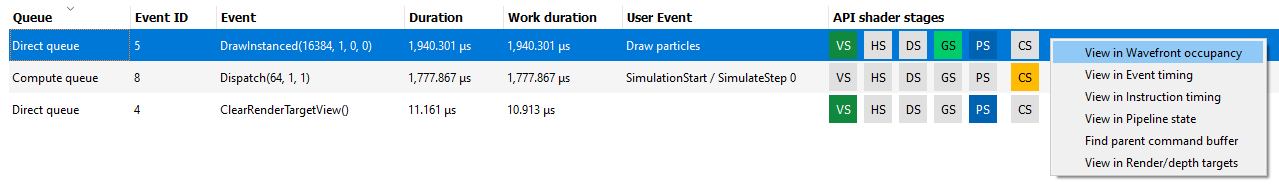
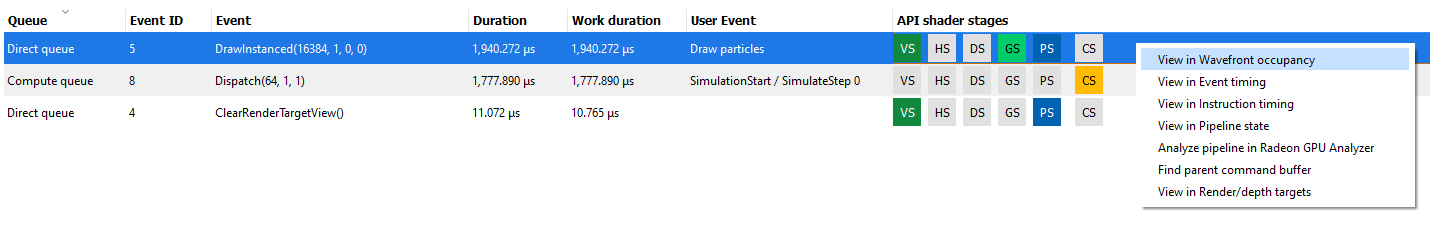
Update documentation for V2.1

diff --git a/docs/source/conf.py b/docs/source/conf.py
@@ -1,5 +1,7 @@
 # -*- coding: utf-8 -*-
 #
+# Copyright (c) 2017-2024 Advanced Micro Devices, Inc. All rights reserved.
+#
 # Radeon GPU Profiler documentation build configuration file, created by
 # sphinx-quickstart on Fri Jun 30 12:01:48 2017.
 #
@@ -46,7 +48,7 @@ master_doc = 'index'
 
 # General information about the project.
 project = u'Radeon GPU Profiler'
-copyright = u'2017-2023, Advanced Micro Devices, Inc. All rights reserved.'
+copyright = u'2017-2024, Advanced Micro Devices, Inc. All rights reserved.'
 author = u'AMD Developer Tools'
 
 # The version info for the project you're documenting, acts as replacement for
@@ -54,9 +56,9 @@ author = u'AMD Developer Tools'
 # built documents.
 #
 # The short X.Y version.
-version = u'2.0.0'
+version = u'2.1.0'
 # The full version, including alpha/beta/rc tags.
-release = u'2.0.0'
+release = u'2.1.0'
 
 # The language for content autogenerated by Sphinx. Refer to documentation
 # for a list of supported languages.

diff --git a/docs/source/index.rst b/docs/source/index.rst
@@ -308,6 +308,13 @@ right-click context menu to jump between panes, the option to "View in
 context rolls" will only be available if the selected event is currently
 present in the events table on the context rolls pane.
 
+In the events panes selecting the "context rolls" option from the "Color 
+By" drop down box in the Wavefront occupancy event timeline or the Event 
+timing pane shows all events that have had their context rolled from the
+previous event.
+
+.. image:: media_rgp/rgp_context_rolls_4.png
+
 Most expensive events
 ---------------------
 
@@ -566,8 +573,8 @@ supports zooming:
 .. |ZoomInRef| image:: media_rgp/rgp_zoom_in.png
 .. |ZoomOutRef| image:: media_rgp/rgp_zoom_out.png
 
-|ZoomSelectionRef| **Zoom to selection**
-----------------------------------------
+|ZoomSelectionRef| Zoom to selection
+------------------------------------
 When **Zoom to selection** is clicked, the zoom level is increased to a selected
 region or selected event. A selection region is set by holding down the
 left mouse button while the mouse is on the graph and dragging the mouse
@@ -580,14 +587,14 @@ to a selected event can be accomplished by simply double clicking the event.
 Pressing the **Z** shortcut key while holding down the **CTRL** key activates
 **Zoom to selection** as well.
 
-|ZoomResetRef| **Zoom reset**
------------------------------
+|ZoomResetRef| Zoom reset
+-------------------------
 When **Zoom reset** is clicked, the zoom level is returned to the original level
 to reveal the entire time span on the graph. The zoom level can also be reset
 using the **H** shortcut key.
 
-|ZoomInRef| **Zoom in**
------------------------
+|ZoomInRef| Zoom in
+-------------------
 Increases the zoom level incrementally to display a shorter time span on the
 graph. The zoom level is increased each time this icon is clicked until the
 maximum zoom level is reached. Alternatively, holding down the **CTRL** key
@@ -596,8 +603,8 @@ will also zoom in for a more detailed view. Zooming in can be activated with
 the **A** shortcut key. To zoom in quickly at a 10x rate, press the **S**
 shortcut key.
 
-|ZoomOutRef| **Zoom out**
--------------------------
+|ZoomOutRef| Zoom out
+---------------------
 Decreases the zoom level incrementally to display a longer time span on the
 graph. The zoom level is decreased each time this icon is clicked until the
 minimum zoom level is reached (i.e. the full available time region).
@@ -1046,6 +1053,55 @@ contain a user event hierarchy, nothing will be shown.
 Events enclosed by user markers are colored in the wavefront occupancy
 view. They are also visible in the side panel.
 
+.. _rga_rgp_interop:
+
+Radeon GPU Analyzer and Radeon GPU Profiler interop
+===================================================
+
+The Radeon GPU Analyzer now supports opening pipeline binary files in its binary analysis mode. 
+Users can create and open these binary files directly from RGP and view them in RGA. To export 
+a pipeline binary for analysis in RGA right-click an event in any RGP pane that contains events 
+and select "Analyze pipeline in Radeon GPU Analyzer" in the context menu options.
+
+.. image:: media_rgp/rgp_analyze_pipeline_in_rga.png
+
+Some events such as indirect raytracing events can have multiple pipeline binaries. To select 
+which pipeline binary to analyze in RGA right-click a specific binary in the pipeline state 
+shader table for ray tracing events and select the context menu option to analyze that pipeline 
+binary. Alternatively, right-click the event anywhere in RGP and select "Analyze pipeline in 
+Radeon GPU Analyzer" to open a window to pick from the full list of pipeline binaries in that event.
+Pushing the "Analyze selected binaries" button will save and open all binaries that were checked in
+the list in RGA. Keep in mind opening a large number of pipeline binaries in RGA may take some time.
+
+.. image:: media_rgp/rgp_select_multiple_pipeline_binaries_for_rga_export.png
+
+The location of the Radeon GPU Analyzer executable file as well as the location where pipeline 
+binaries are saved can be changed in the Radeon GPU Analyzer interop section of the general settings.
+
+.. image:: media_rgp/rgp_rga_interop_settings.png
+
+If either the executable file or pipeline binary file path cannot be found an error message will 
+be displayed next to the corresponding setting.
+
+.. image:: media_rgp/rgp_rga_interop_settings_invalid.png
+
+Selecting a pipeline binary for analysis while either of these file paths are invalid will open up 
+a message prompt to select a valid file path.
+
+.. image:: media_rgp/rgp_rga_executable_not_found.png
+
+If the pipeline binary being exported already exists on disk a message prompt will appear asking 
+if the file should be overwritten or directly opened in RGA without being overwritten. Select the 
+checkbox in the message prompt to save the selected option for the future and not see this message 
+again.
+
+.. image:: media_rgp/rgp_pipeline_binary_file_already_exists.png
+
+This setting can be changed at any time from the Radeon GPU Analyzer interop section of the 
+general settings.
+
+.. image:: media_rgp/rgp_overwrite_existing_pipeline_binaries_options.png
+
 RenderDoc & Radeon GPU Profiler interop BETA
 ============================================
 
@@ -1225,4 +1281,4 @@ Microsoft is a registered trademark of Microsoft Corporation in the US and other
 
 Windows is a registered trademark of Microsoft Corporation in the US and other jurisdictions.
 
-© 2016-2023 Advanced Micro Devices, Inc. All rights reserved.
+© 2016-2024 Advanced Micro Devices, Inc. All rights reserved.

diff --git a/docs/source/instruction_timing.rst b/docs/source/instruction_timing.rst
@@ -65,23 +65,32 @@ be seen in the image below.
 
 Solid green indicates how much of a given instruction's latency was hidden by VALU work. Solid yellow
 indicates how much latency was hidden by SALU or SMEM work. A diagonal hatch pattern made up of both
-green and yellow indicates how much latency was hidden by both VALU and SALU work. Finally, red indicates
-how much latency was not hidden by other work being done on the GPU. It is likely that bars
-with large red segments indicate a stall occurring while the shader is executing. When the mouse
-hovers over a row in the Latency column, a tooltip appears showing the exact breakdown of that
+green and yellow indicates how much latency was hidden by both VALU and SALU work.
+Sections with a black diagonal hatch pattern are the portion of the stall that is the pre-issue stall.
+Finally, solid red indicates how much latency was not hidden by other work being done on the GPU.
+It is likely that bars with large red segments indicate a stall occurring while the shader is executing.
+When the mouse hovers over a row in the Latency column, a tooltip appears showing the exact breakdown of that
 instruction's latency.
 
-In the image above, the total latency of the instruction is 853 clocks. Of those 853 clocks, 209 clocks
-worth of latency are hidden by SALU work on other slots and 554 clocks worth of latency are hidden by
-VALU work. The 209 clocks where both SALU and VALU work was being done is shown using the hatch pattern.
-The segment between 209 and 554 clocks is shown as green since only VALU work is being done. The segment
-between 554 and 853 clocks is shown as red since there is no other work being done. Since there is more
+In the image above, the total latency of the instruction is 845 clocks. Of those 845 clocks, 197 clocks
+worth of latency are hidden by SALU work on other slots and 453 clocks worth of latency are hidden by
+VALU work. The 197 clocks where both SALU and VALU work was being done is shown using the hatch pattern.
+The segment between 197 and 453 clocks is shown as green since only VALU work is being done. The segment
+between 453 and 845 clocks is shown as red since there is no other work being done. Since there is more
 VALU work being done at the same time, green is more prevalent than yellow in this bar.
 
 Contrast this with the image below, where an instruction is shown where more latency is hidden by SALU
 work. In this case, yellow is more prevalent than green.
 
 .. image:: media_rgp/rgp_instruction_timing_latency_bars_2.png
+
+When the amount of latency hidden by SALU and VALU work is greater than the the pre-issue
+stall, no black diagonal hatch pattern will be displayed, and the tooltip will display that the pre-issue
+stall is completely hidden. If the amount of latency hidden by SALU and VALU work is less than the 
+pre-issue stall, the duration after the VALU and SALU work will have the black diagonal hatch pattern,
+as shown in the image below.
+
+.. image:: media_rgp/rgp_instruction_timing_latency_bars_3.png
 
 A red indicator will be shown in the vertical scroll bar corresponding to the location of the
 instruction with the highest latency. This allows you to quickly find the hotspot within the shader.
@@ -229,6 +238,13 @@ events using the selected kernel (Shift + Left and Shift + Right). The navigatio
 Compute profile are shown below.
 
 .. image:: media_rgp/rgp_instruction_timing_3.png
+
+The pipeline binary of an event can also be exported for analysis in the Radeon GPU Aanalyzer from the 
+instruction timing pane. Select the hamburger drop down as shown in the image below and select 
+"Analyze pipeline in Radeon GPU Analyzer". Selecting this option for indirect raytracing events will 
+save and open the pipeline binary for the currently selected export name.
+
+.. image:: media_rgp/rgp_instruction_timing_rga_interop.png
 
 More information on some of the features available in the Instruction timing pane can be found under
 the :ref:`ISA View <isa_view>` section.

diff --git a/docs/source/wavefront_occupancy.rst b/docs/source/wavefront_occupancy.rst
@@ -58,6 +58,9 @@ legend to visualize wavefronts in different ways:
    wavefronts ran on. This can be useful to visualize the amount of
    context rolls that occurred.
 
+-  **Color by limiting factor.** Shows the limiting factor for the occupancy 
+   of that shader.
+
 -  **Color by shader engine.** Shows which shader engine the wavefronts
    ran on.
 
@@ -78,6 +81,10 @@ legend to visualize wavefronts in different ways:
    which perform ray tracing. Wavefronts from traditional ray tracing events as
    well as wavefronts from shaders with inlined ray tracing will be shown using
    the specified ray tracing color. All other waves will be shown as grey.
+
+-  **Color by indirect command** Shows which wavefronts correspond to which
+   indirect commands of the profile. Each indirect command is assigned a unique
+   color. All other waves will be shown as grey.
 
 Color modes can be synchronized across the Wavefront occupancy and Event timing
 panes. To do this, simply hold down the Ctrl key when selecting a mode from any
@@ -228,6 +235,12 @@ events in different ways:
    context. This can be useful to visualize the amount of context rolls
    that occurred.
 
+-  **Color by context rolls.** Shows which events had their context rolled 
+   since the previous event.
+
+-  **Color by limiting factor.** Shows the largest limiting factor for the 
+   occupancy for any shader in that event.
+
 -  **Color by event.** Will show each event in a unique color.
 
 -  **Color by pass.** Groups events into different passes depending on
@@ -252,6 +265,10 @@ events in different ways:
 
 -  **Color by ray tracing** will only colorize raytracing events. All other
    events will be greyed out.
+
+-  **Color by indirect command** Will colorize each event based on which 
+   indirect command the event came from. Events launched from the same
+   indirect command get the same unique color. All other events will be greyed out.
 
 Beneath the **Color by** combo-box is the **Event filter** combo-box.
 This allows the user to visualize only certain types of events on the timeline.
@@ -416,7 +433,7 @@ Below is a screenshot of what the right-click context menu looks like.
 .. rubric:: Wavefront occupancy customization
 
 The Wavefront occupancy section of RGP is customizable. Users can hide
-and reorder the vertical position of views.
+and reorder the vertical position of views. Users can also resize the height of the views.
 
 To hide a view, simply press the X button next to the view.
 
@@ -448,6 +465,10 @@ until you move it again. The Views combo box will be updated to
 reflect its new position.
 
 .. image:: media_rgp/rgp_occupancy_view_new_position.png
+
+The views can also be resized by clicking and dragging the bottom of the view.
+
+.. image:: media_rgp/rgp_resized_occupancy_views.png
 
 The customization of the Wavefront occupancy section is treated like a
 normal RGP setting and persists upon closing and reopening RGP.

diff --git a/docs/source/pipelines.rst b/docs/source/pipelines.rst
@@ -62,6 +62,14 @@ Each entry in the table displays the following information:
 The **Filter pipelines...** field can be used to filter items in the list by the API PSO hash.
 The Pipelines table can be sorted by clicking on a column header.
 
+Right-clicking a pipeline in the pipeline summary section displays a context menu giving the 
+option to "Analyze pipeline in Radeon GPU Analyzer." Selecting the option saves the pipeline
+in a binary format and opens the binary file in the Radeon GPU Analyzer. See the section 
+:ref:`Radeon GPU Analyzer and Radeon GPU Profiler interop<rga_rgp_interop>` for more 
+information.
+
+.. image:: media_rgp/rgp_pipeline_summary_6.png
+
 Below the table, the Bucket ID, API PSO hash and Driver internal pipeline
 hash for the currently-selected pipeline is displayed. There is also a quick link to
 view the selected pipeline in the Pipeline state view. This will navigate to the

diff --git a/docs/source/pipeline_state.rst b/docs/source/pipeline_state.rst
@@ -98,7 +98,10 @@ the table by Export name using the **Filter shaders...** field. If you click on
 any hyperlinked text in the shader table, it will navigate to the ISA tab and
 show the ISA for the selected shader function. You can also use the right-click
 context menu to navigate to either the ISA tab or to the Instruction timing
-view.
+view. The context menu also allows you to analyze the pipeline binary for that
+shader function in the Radeon GPU Analyzer.
+
+.. image:: media_rgp/rgp_pipeline_state_raytracing_5.png
 
 If the **Enable shader instrumentation** checkbox was checked in Radeon
 Developer Panel when the profile was captured, the table will also include
